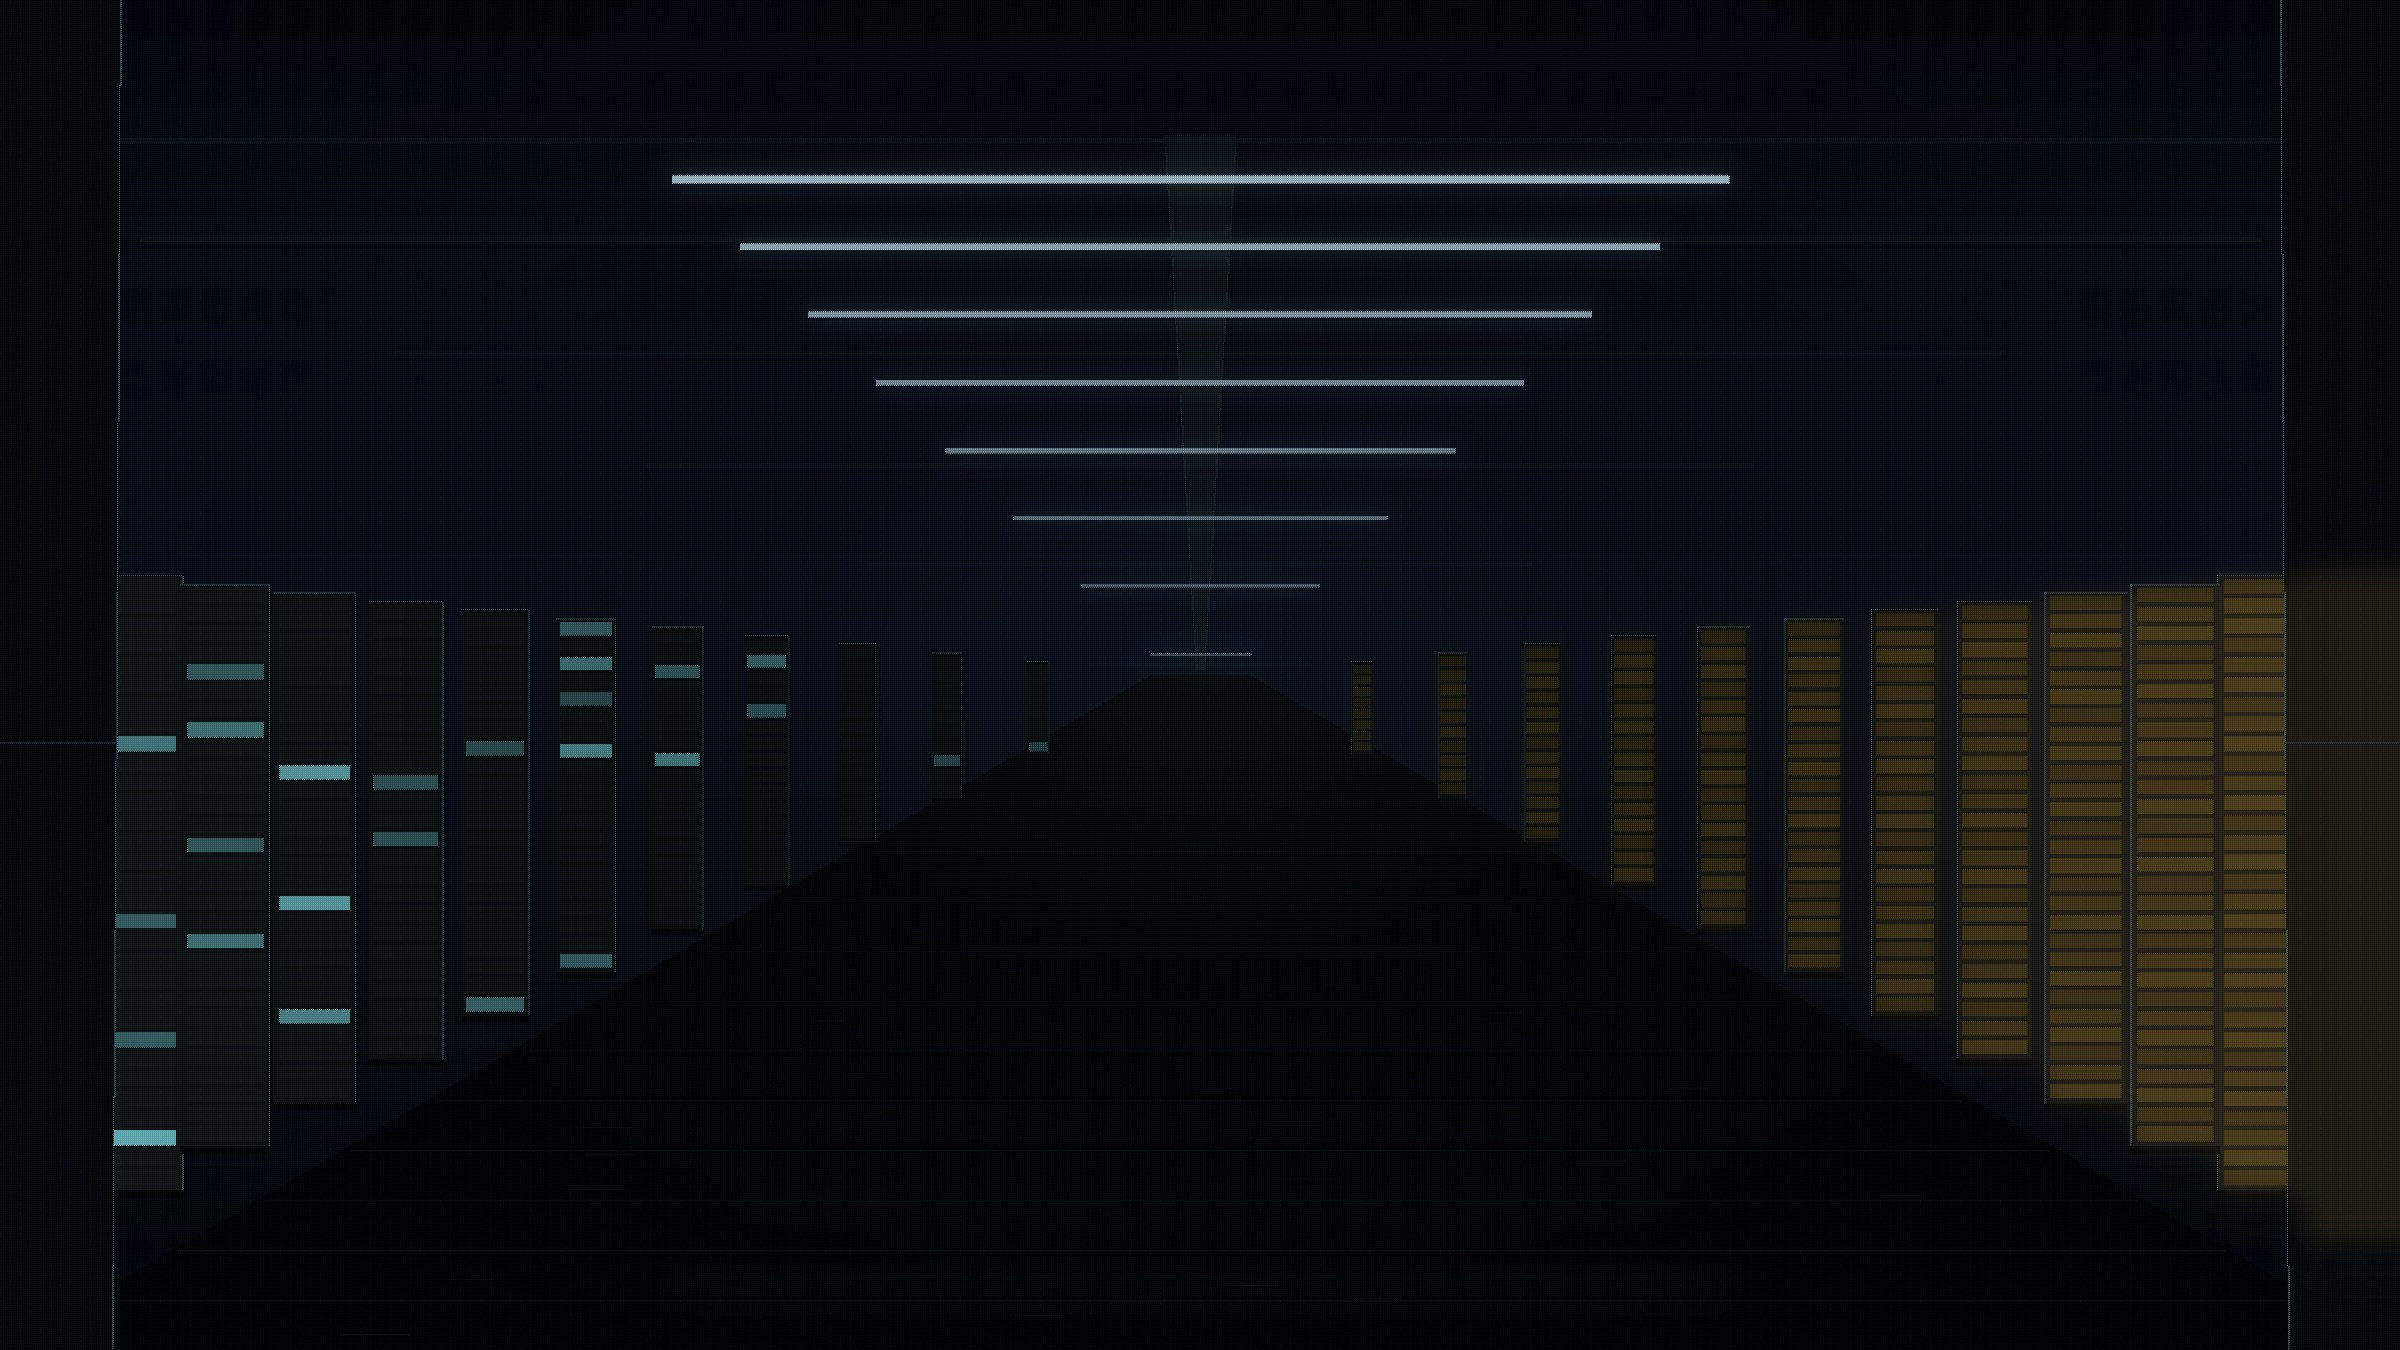
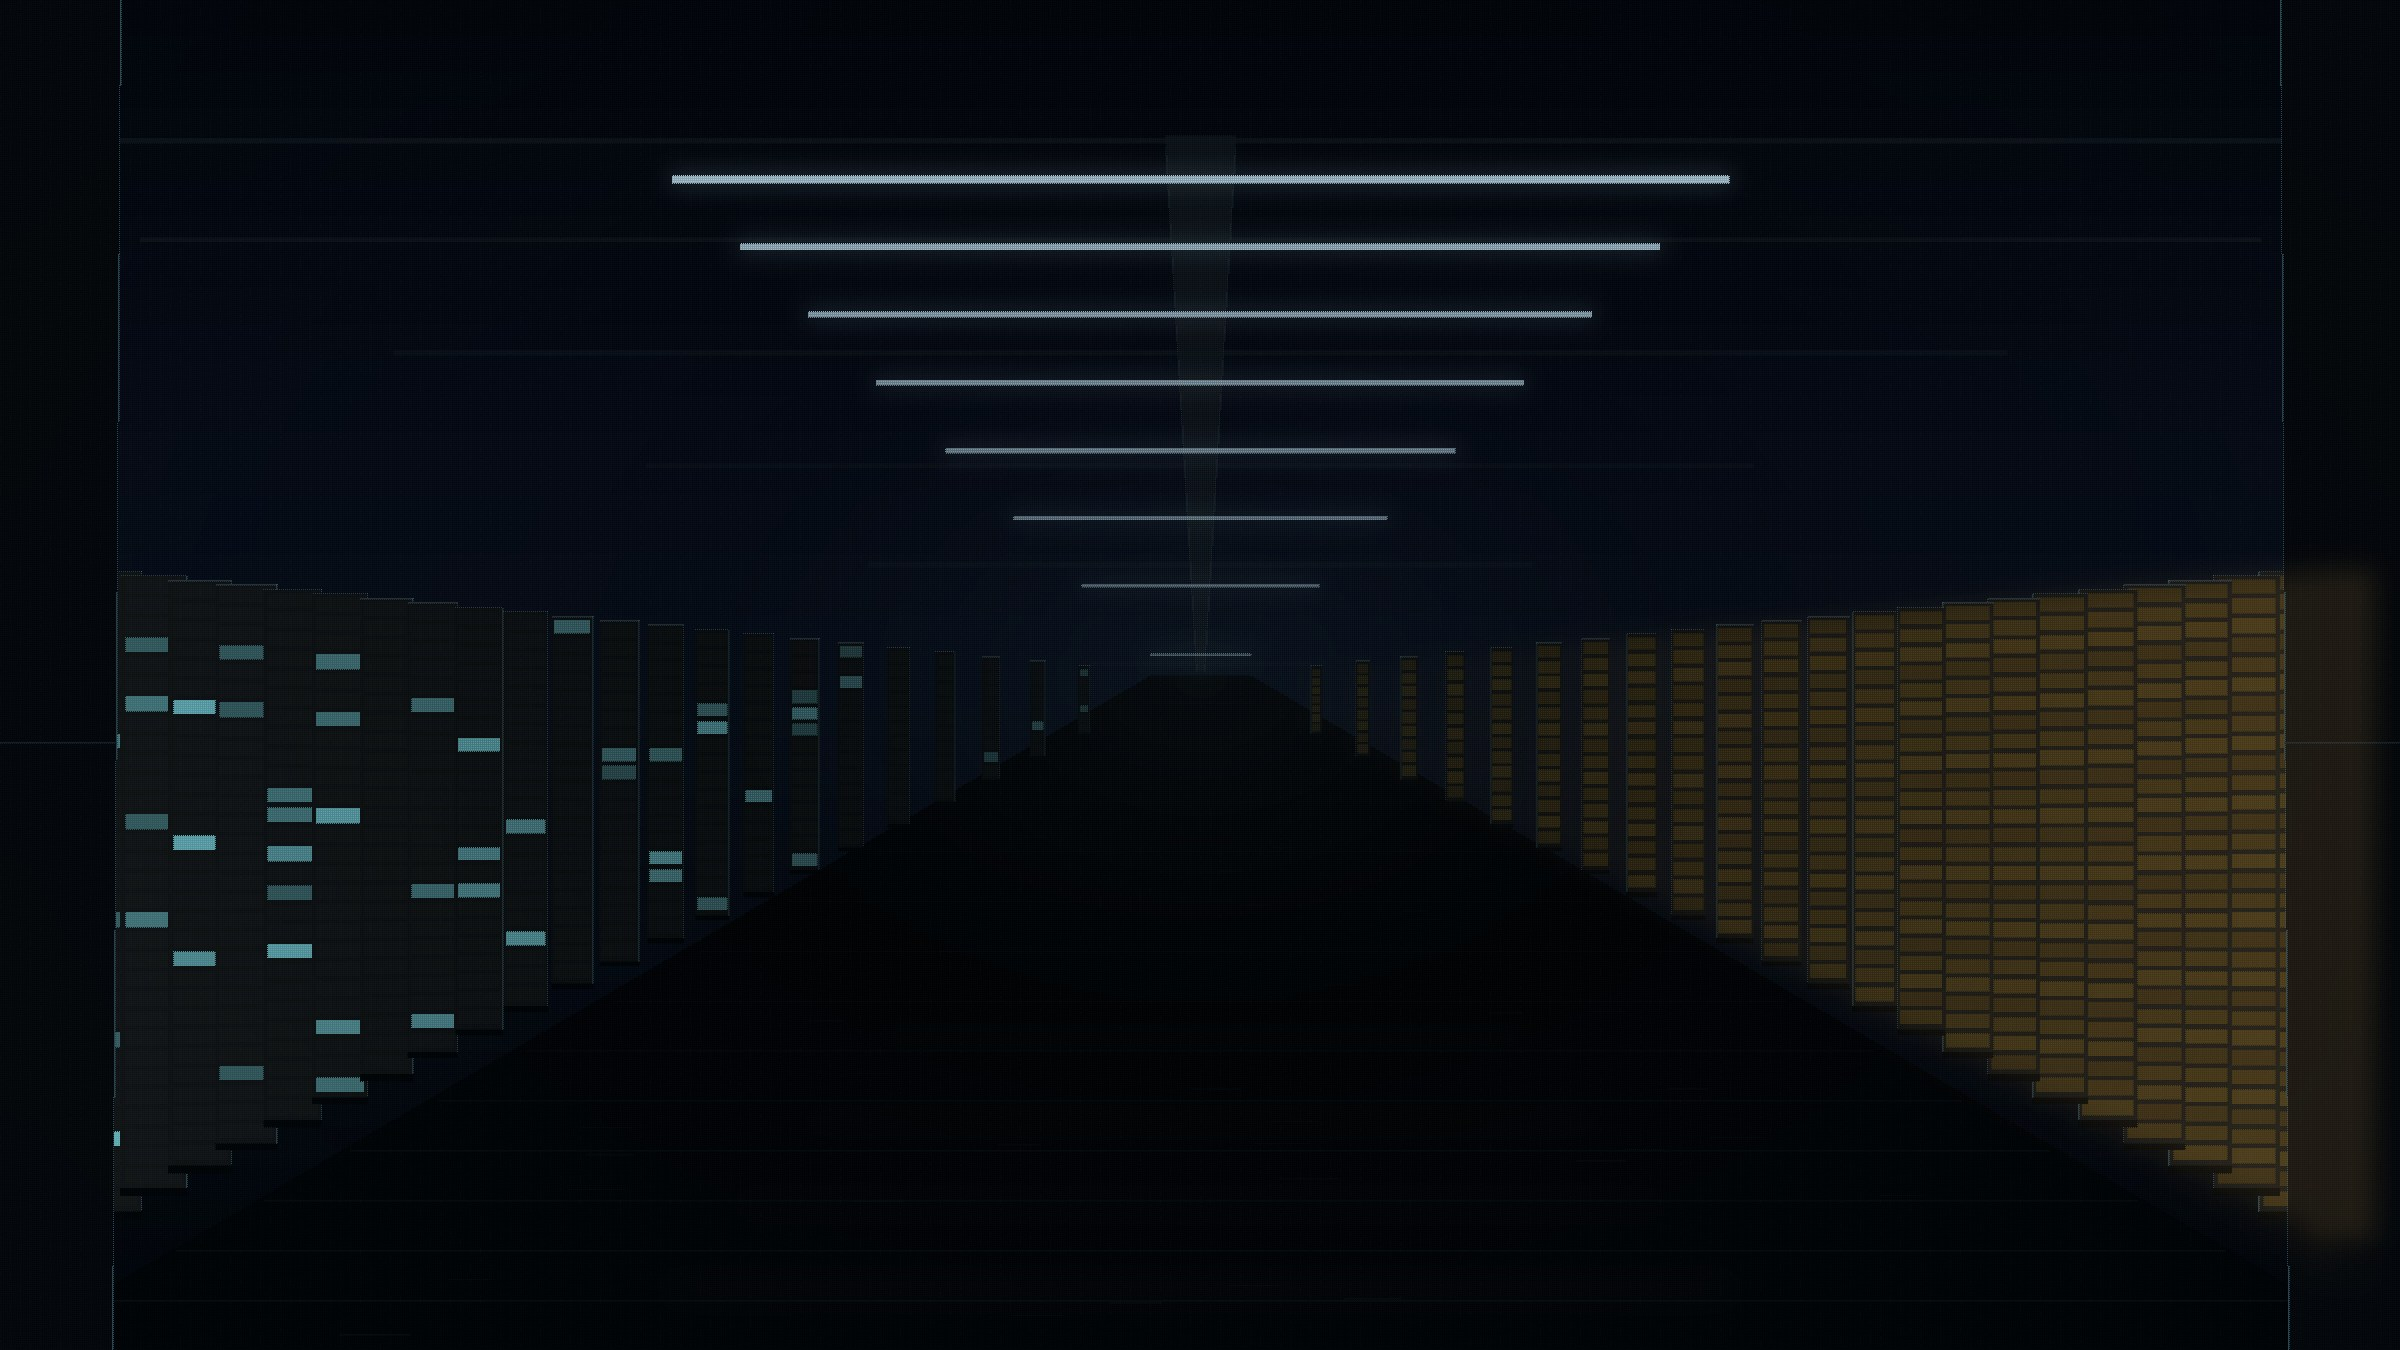
DC hero: 23 racks per side (was 12)
Per request — denser cabinet density. Both image and JS overlay
updated together to keep the LED dots aligned to the cabinets.

Image (data-center-hall.jpg):
- RACK_COUNT 12 -> 23 per side (46 cabinets total).
- Rack width near reduced 105 -> 72; far 14 -> 9. Cabinets now
  read as standard 19-inch racks packed tighter, with subtle
  overlap deep in the aisle that suggests a real high-density
  colocation hall.
- Right side: every slot still gets the soft warm panel base.
- Bloom + wet-floor reflection passes now iterate 23 cabinets
  per side, so the warm ambient wash on the right wall extends
  further with the new density.

Overlay (JS):
- RACK_COUNT bumped to 23.
- Same rack-width formula (lerp(72, 9, depth)) so SVG dots land
  on the exact cabinet faces in the image.
- Right side: ~21 slots/rack average × 23 racks = ~480 amber
  LEDs across the wall, each with an independent blink phase.
- Left side: 2-5 mint dots per rack × 23 = ~70 cool accents.
- Total ~550 SVG circles, well within browser performance.

diff --git a/data-centers.html b/data-centers.html
@@ -281,7 +281,7 @@
         const W = 2400, H = 1350;
         const vpX = W / 2;
         const vpY = H * 0.5;
-        const RACK_COUNT = 12;
+        const RACK_COUNT = 23;
         const lerp = (a, b, t) => a + (b - a) * t;
         const rngFrom = (seed) => {
           let s = (seed | 0) || 1;
@@ -304,7 +304,7 @@
             const xNear = W * 0.5 + side * W * 0.46;
             const xFar = vpX + side * 65;
             const x = lerp(xNear, xFar, depth);
-            const rw = lerp(105, 14, depth);
+            const rw = lerp(72, 9, depth);
             const rhTop = lerp(H * 0.42, vpY, depth * 0.95);
             const rhBot = lerp(H * 0.92, vpY + 10, depth * 0.95);
             const rackLeft = side === -1 ? x - rw : x;
